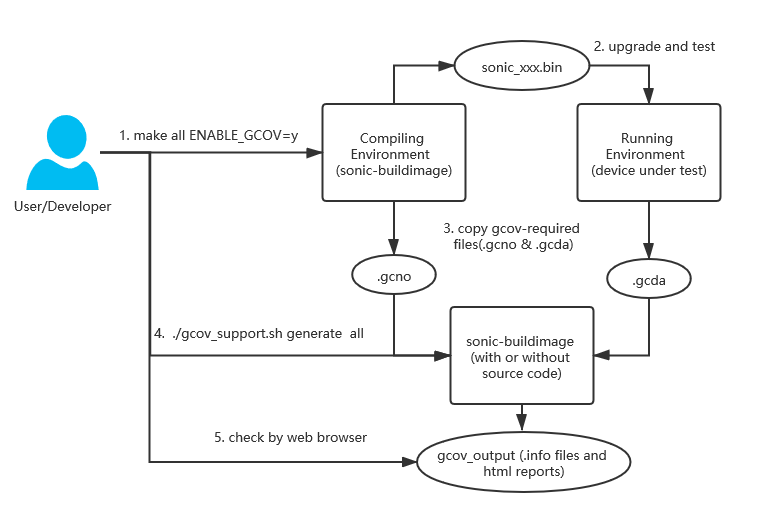
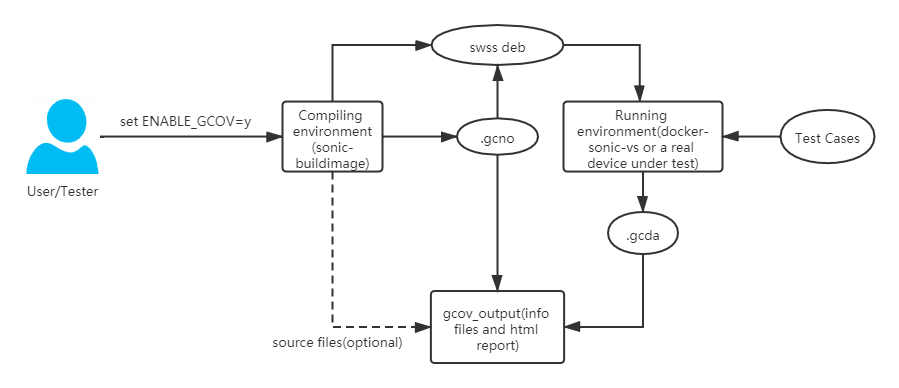
code coverage rate HLD revise

Changed region(s): [[0.0303, 0.0619, 1.0, 0.9588], [0.7879, 0.4639, 0.9091, 0.5876]]

diff --git a/doc/code_coverage_rate/code_coverage_rate.md b/doc/code_coverage_rate/code_coverage_rate.md
@@ -1,158 +1,195 @@
-#  [Code Coverage Rate HLD] Update code coverage rate.md
-code-coverage-rate-hld
+# Code Coverage Rate in SONiC
+# High Level Design Document
+#### Rev 0.1
+
+# Table of Contents
+  * [Revision](#revision)
+  * [About this Document](#about-this-document)
+  * [Problem Definition](#problem-definition)
+  * [Solution](#solution)
+  * [1 Introductions](#1-introductions)
+    * [1.1 What-is-GCOV](#11-what-is-gcov)
+    * [1.2 Main workflow](#12-main-workflow)
+      * [1.2.1 User space modules](#121-user-space-modules)
+      * [1.2.2 kernel modules](#122-kernel-modules)
+  * [2 Design](#2-Design)
+    * [2.1 New Configuration Parameters](#21-new-configuration-parameters)
+    * [2.2 Compile to gcov-versioned debian packet](#22-compile-to-gcov-versioned-debian-packet)
+    * [2.3 Collect gcno files](#23-collect-gcno-files)
+    * [2.4 Collect gcda files](#24-collect-gcda-files)
+    * [2.5 Generation of gcov report](#25-generation-of-gcov-report)
+    * [2.6 Check the coverage report](#26-check-the-coverage-report)
+  * [3 Safety instruction](#3-safety-instruction)
+  * [4 Coverage data for python script](#4-coverage-data-for-python-script)
+
+# Revision
+
+| Rev |     Date    |       Author       | Change Description          |
+|:---:|:-----------:|:-------------------------|:----------------------|
+| 0.1 |  16/4/2019  |   Zhengnan Cheng   | Initial version       |
 
 # About this Document
-This document provides a high level of design for code coverage rate testing.
+This document provides the high level design for code coverage rate testing.
 
 # Problem Definition
-Code coverage rate is a term that describes the rate of the number of code lines that have been executed divide by the number of total code lines in the switch operating system. We reuse this term in SONiC code testing and create some related tools for SONiC code testing.
+Code coverage rate is a term that describe the rate of the number of code lines has been executed divide by the number of total code lines in switch operating system. We reuse this term in SONiC code testing and create some related tools for SONiC code testing.
 
 # Solution
-Use the Gcov tools to measure the code coverage rate in its commercial switch and white box switch. Create the Linux scripts for Gcov compiling, Gcov data collect, and Gcov data show functions for SONiC. A GCOV\_ENABLE compiling tag is provided for the SONiC code project. And we integrate all these Gcov functions into the Jenkins CICD system. Our solution is a complete toolset for the code coverage rate for SONiC.
+Use the Gcov tools to measure the code coverage rate in its commercial switch and white box switch. Create the Linux scripts for Gcov compiling, Gcov data collect, and Gcov report generation for SONiC. A ENABLE\_GCOV compiling tag is provided for SONiC code project. And we integrate all these Gcov functions into Jenkins CICD system. Our solution is a complete tool set for code coverage rate for SONiC. 
 
-# 1. Introduction to GCOV 
+# 1. Introductions
 
-## 1.1. What-is-GCOV
-Gcov is one of the commonly-used tools capable of testing code coverage. It is usually released together with GCC, used in analyzing programs to help create a more efficient and fast running program and discover the untested codes. Every developer can apply gcov as a profiling tool to optimize where your codes are defected by checking the two basic statistics collected from gcov reports:<br>
-1)What codes have been executed.<br>
-2)How many times a code line has been executed.<br>
+## 1.1 What-is-GCOV
+Gcov is one of the commonly-used tools capable of testing code coverage. It is usually released together with GCC, used in analyzing programs to help create a more efficient and fast running program and discover the untested codes. Every developer can apply gcov as a profiling tool to optimize where your codes are defect by checking the two basic statistics collected from gcov reports:<br>
+- What codes have been executed.<br>
+- How many times a code line has been executed.<br>
 
-These two statistics can also be fully exploited by a tester or developer to dramatically reduce the efforts putting into the test cases' improvement. This improvement then can benefit from achieving a prospective code coverage rate. It is noted that the gcov tool can only be used in connection with GCC when managing codes.<br>
+## 1.2 Main workflow
 
-## 1.2. Main workflow
-The workflow of generating a gcov report to the dfd\_debug in sonic-platform-modules-ruijie will be taken as an example briefly described below.<br>
-Two special GCC options: -fprofile-arcs -ftest-coverage are firstly added in the compiler as shown in figure 1.1. These two options tell the compiler to generate some additional information required by gcov.<br>
-
-1)-ftest-coverage: This option helps to generate the .gcno notes file sharing the same name with each source file. The .gcno file saves the information required by rebuilding the basic block graphs and the source line numbers of blocks.<br>
-2)-fprofile-arcs: This option helps to generate the .gcda count data files when a compiled program is running. Same as .gcno files, an individual .gcda file is generated for each source file. The gcda file saves the information about arc transition counts, value profile counts and some summary.<br>
+### 1.2.1 User space modules
+Twp basic compiling flag for gcov:
+- -ftest-coverage: This option helps to generate the .gcno notes file sharing the same name with each source file. The .gcno file saves the information required by rebuilding the basic block graphs and the source line numbers of blocks.<br>
+- -fprofile-arcs: This option helps to generate the .gcda count data files when a compiled program is running. Same as .gcno files, an individual .gcda file is generated for each source file. The gcda file saves the information about arc transition counts, value profile counts and some summary.<br>
 
 ![](figure1.png)<br>
-__Figure 1.1: Additional options for GCC compiler__.<br>
-After the special GCC options are added to the compiler, the ruijie BSP deb which contains the dfd\_debug process can be built. Considering the dfd\_debug is a common app, the device type can be neglected as shown in figure 1.2.<br>
+__Figure 1.1: Additional options for gcc compiler__.<br>
 
-![](figure2.png)<br>
-__Figure 1.2: make ruijie BSP__.<br>
-
-The successful building will create additional .gcno files in company with the object files, as can be seen in figure 1.3. It should be mentioned if the source files keep unchanged, the .gcno files they produce will also remain the same.<br>
+Successful building will create additional .gcno files in company with the object files, as it can be seen from figure 1.2. 
 
 ![](figure3.png)<br>
-__Figure 1.3 .gcno files__.<br>
+__Figure 1.2 .gcno files__.<br>
 
-The executable file will next be copied to the /usr/local/bin dir in the device under test, and executed directly. This step will create the .gcda file within the dir of /sonic/platform/Broadcom/sonic-platform-modules-ruijie/common/app/dev\_util/tmp in running environment. The path of this dir is inconsistent with the path where the .gcno file is generated. Therefore it indicates .gcno files and .gcda files should be in the same dir when generating gcov reports.<br>
+The execution of modules built with gcov options can create the .gcda file in running environment. gcno files and gcda files can then be put together using gcov command to generate the required report
+- gcov dfd\_debug.c --> dfd\_debug.c.gcov<br>
 
-When the .gcda files are collected from the running environment, and sent to the path where the corresponding gcno files exist, the gcov command can be run against the source file and generate the \*.c.gcov file which includes the coverate informations details:<br>
-gcov dfd\_debug.c --> dfd\_debug.c.gcov<br>
-
-While a better option is to apply the lcov tool to create an html-formed report. There are two main advantages to use lcov:<br>
-1) The html-based report provides a better user-friendly view. All coverage data can be access by a simple web browser.<br>
-2) For a large project, the coverage data would be huge and comprehensive. The lcov can generate a merged report which includes all submodules and their coverage data in three levels: the directory level, the file level, and the source code level.<br>
-
-The steps to generate a HTML report by lcov are listed below:<br>
-In the dir where the gcda file exists:<br>
-1) run "lcov -c -d .test.info"<br>
-This command grabs all the coverage data into an info file which contains the coverage information about one or multiple source files.<br>
-2) run "genhtml -o test\_report/test.info"<br>
-
-This command translates the info file and generates an HTML-based coverage report, then a web browser will be available to check the report. As illustrated in figure 1.4,<br>
-the blue bars cover the codes that have been executed, and the number marked at the beginning of each line indicates how many times this code line has been executed. While the red bars cover the code lines not executed.<br>
+While a better option is to apply lcov tool to create a html-formed report. There are two main advantages to use lcov:<br>
+- The html-based report provides a better user-friendly view. All coverage data can be access by a simple web browser.<br>
+- For a large project, the coverage data would be huge and comprehensive. The lcov can generate a merged report which includes all submodules and their coverage data in three levels: the directory level, the file level and the source code level.<br>
 
 ![](figure4.png)<br>
-__Figure 1.4 Coverage details for a source file__.<br>
+__Figure 1.3 Coverage details for a source file__.<br>
 
-For Linux kernel version larger than 2.6.31, gcov-based compiling can be directly enabled by configuring the kernel with the following macros:<br>
-Note that all the new contents in the following patch must be added, or the compiling process fails due to incomplete configurations.<br>
+### 1.2.2 kernel modules
+For linux kernel version larger than 2.6.31, gcov-based compiling can be directly enabled by configuring the kernel with the following macros:<br>
+```
+CONFIG_GCOV_KERNEL=y
+CONFIG_GCOV_PROFILE_ALL=y
+CONFIG_GCOV_FORMAT_AUTODETECT=y
+# CONFIG_GCOV_FORMAT_3_4 is not set
+# CONFIG_GCOV_FORMAT_4_7 is not set
+```
 
-![](figure5.png)<br>
-__Figure 1.5  Kernel gcov compiling configuration__.<br>
-
-This patch will be placed in the src/sonic-Linux-kernel/patch folder and added to the series file so that when compiling the kernel, the patch will be automatically applied and the kernel deb file can be compiled to a gcov version one.<br>
-
-# 2. The basic workflow for SONiC Coverage Testing
-In order that a SONiC image can be complied with gcov option and a corresponding gcov report can be generated as easily as possible, a script named gcov\_support.sh will be added to sonic-buildimage repository. The main purpose of adding this script is to help the users to output a gcov-versioned SONiC image and generate coverage reports in a very simple way as shown in figure 2.1.<br>
-
-The following steps are required currently to generate a complete report for source codes in SONiC:<br>
-        Add option "ENABLE_GCOV=y" when running a make command to compile a SONiC image<br>
-	Upgrade the device under test with the gcov-versioned SONiC image and run the test suite<br>
-	Collect the .gcno files in compiling environment and the .gcda files in running environment<br>
-	Copy the gcov-required files (.gcno and .gcda) and the gcov_support.sh script into a local linux environment<br>
-	Execute the generate keyword in the script to create the complete report and check with a web browser.<br>
+# 2. Design
+In order that a SONiC image can be complied with gcov option and a corresponding gcov report can be generated as easily as possible, a script named gcov\_support.sh will be added. Currently this script will be added to sonic-swss repo to provide help for gcno and gcda files colletion and report generating in a very simple way as shown in figure 2.1.<br>
 
 ![](figure21.png)<br>
 __Figure 2.1 Workflow to enable gcov in SONiC__.<br>
 
-## 2.1 Compile to gcov-versioned SONiC image
-The option "ENABLE\_GCOV=y" passed to the compiling process will trigger the execution of two keywords in gcov\_support.sh script. This script contains in total 5 keywords as listed in figure 2.2 below.<br>
-![](figure22.png)<br>
-__Figure 2.2 Usage keywords of gcov\_support.sh__.<br>
+## 2.1 New Configuration Parameters
+ENABLE_GCOV as a new configuration parameter is added to SONiC build system. The default value is "n". When a gcov building is required, this parameter should be set to "y"
+```
+#gcov compiling option
+ENABLE_GCOV=n
+export ENABLE_GCOV
+```
+This parameter will control whether a specify module should be compiled with gcov options introduced in 1.2.1
 
-init: This keyword will be merged to "make init" command, which is controlled by ENABLE\_GCOV option Then the execution of "make init" will first download and update the source codes in the repository, and next run the "init" keyword in the script to apply the patches to all modules in SONiC. These patches are saved in a source address (HTTP server) beforehand, and each is responsible for a particular module to modify the gcc compiling option By doing this, each module can be compiled to their gcov-versioned object files and the additional .gcno files.<br>
+## 2.2 Compile to gcov-versioned debian packet
+The configure script for swss package should be modified to merge gcov compiling options.
+```
+dnl if the user has specified any CFLAGS, override our settings
+if test "$enable_gcov" = "yes"; then
+    CFLAGS_COMMON+=" -fprofile-arcs -ftest-coverage"
+    AC_SUBST(CFLAGS_COMMON)
 
-collect .gcno: This keyword will be triggered to run after all .deb files are built, which is also controlled by the ENABLE\_GCOV option. By running "collect .gcno" keyword, all .gcno files generated during compiling will be collected and packed to a gcno.tar.gz file saved inside the target folder.<br>
+    LDFLAGS+=" -fprofile-arcs"
+    AC_SUBST(LDFLAGS)
+fi
+...
+AC_ARG_ENABLE([gcov], AS_HELP_STRING([--enable-gcov], [enable coverage test]))
+AS_IF([test "x${enable_gcov}" = "xyes" ], AC_MSG_RESULT([yes]), AC_MSG_RESULT([no]))
+AM_CONDITIONAL([ENABLE_GCOV],[test "x${enable_gcov}" = "xyes"])
+```
 
-## 2.2 Collect .gcda files
-When the above compiling process is complete, a gcov-versioned SONiC image sonic\_xxx.bin("xxx" represents the platform being configured) will be created, and it can be used to update a device under test to generate the required .gcda files. According to the modules they belong to, the .gcda files will be temporarily saved in two directories :<br>
-The .gcda files which are generated by processes in user space are saved in the root directory of the device under test. Besides, each .gcda file has a save path the same as the corresponding object file in the compiling environment.<br>
+## 2.3 Collect gcno files
+The keyword "collect" in gcov_support.sh which has been added to swss repo will be used to collect gcno files, and it will be excuted during the "install" stage of the debian package building:
+- All script keywords usage:
+```
+root@5c5e8c570c0f:/tmp/swss_gcov/src/sonic-swss# ./gcov_support.sh
+Usage:
+ init                initialize gcov compiling environment
+ collect             collect .gcno files
+ collect_gcda        collect .gcda files
+ generate            generate gcov report in html form (all or submodule_name)
+ clean               reset environment
+ tar_output          tar gcov_output forder
+```
+- Adjustment towards the debian building rules
+```
+override_dh_auto_install:
+	dh_auto_install --destdir=debian/swss
 
-The .gcda files which are generated by kernel modules are saved in the directory of /sys/kernel/debug/gcov/sonic. Similarly, the path from /sonic is the same as that for the corresponding object file in the compiling environment. One important feature which should be mentioned is the .gcda files saved inside the system's kernel directory have no data displayed. They should be copied to the root directory alongside with that generated in userspace. So that these kernel-related .gcda files can display their saved information and be used normally.<br>
+	mkdir -p debian/swss/tmp/swss_gcov
 
-To collect the .gcda files after running the test suite, users can find the gcov\_support.sh script in the system's directory of /usr/local/bin, and then run the "collect .gcda" keyword of the script as shown in figure 2.2 to do the collecting job and output gcda.tar.gz file.<br> 
+	sh ./gcov_support.sh collect
+```
+After the "collect" operation, a compressed gcno.tar.gz is sent to /tmp/swss\_gcov inside the debian package.
 
-## 2.3 Generate the coverage report
-gcno.tar.gz and gcda.tar.gz are the two basic files required to generate an accessible coverage report. As can be seen from figure 2.1, the third step is to send these two compressed files into a local Linux Ubuntu environment. There exist two situations:<br>
+## 2.4 Collect gcda files
+gcov_support.sh is also sent to /tmp/swss\_gcov inside the debian package. After the regular tests to the swss module inside a device, the keyword "collect\_gcda" can be used to collect the generating gcda files, produce gcda.tar.gz and move it into /tmp/swss_gcov together with gcno.tar.gz
 
-If the local environment contains the sonic-buildimage repository, then the two compressed files should be sent to where the sonic folder resides, as shown in figure 2.3.<br>
-Then the user can enter the sonic folder and run:<br>
+## 2.5 Generation of gcov report
+gcno.tar.gz and gcda.tar.gz are the two basic files required to generate an accessible coverage report. The user can enter the /tmp/swss\_gcov inside the swss docker and run:
+```
+./gcov_support.sh generate all
+```
+to generate the overall gcov report for swss module
 
-./gcov\_support.sh generate [all | submodule\_name]<br>
-The "all" keyword represents this command will generate all modules' coverage reports and a merged report. While "submodule_name" keywords indicate the user can select one particular module to generate the coverage report. <br>
-
-![](figure23.png)<br>
-__Figure 2.3 The goal directory of gcov-required files__.<br>
-
-If the local environment is clean and does not contain the sonic-buildimage repository, then the user can create a new directory named sonic, copy the script to the sonic folder and then run:<br>
-./gcov\_support.sh generate all<br>
-to generate the overall report.<br>
-
-It should be noticed that the info file created by the lcov command records the detailed path of the source files, which can be seen in figure 2.5. If in practice the source files do not exist in the directory the info file indicates, then the generated report cannot present the detailed execution information of the source codes. Only the coverage percentage will be given.<br>
-![](figure24.png)<br>
-__Figure 2.4 run script in sonic folder__.<br>
-
-![](figure25.png)<br>
-__Figure 2.5 Source file path recorded in info files__.<br>
-
-## 2.4 Check the coverage report
-Figure 2.6 shows that the coverage reports will be saved under /sonic/gcov\_output directory.<br>
+## 2.6 Check the coverage report
+Figure 2.2 shows that the coverage reports will be saved under /tmp/swss\_gcov/src/sonic-swss directory.<br>
 
 ![](figure26.png)<br>
-__Figure 2.6 Contents in gcov\_output__.<br>
+__Figure 2.2 Contents in gcov\_output__.<br>
 
 The output includes:<br>
-info folder: save info files for all modules according to their generated paths<br>
-HTML folder: save gcov HTML report for all modules according to their generated paths<br>
-AllMergeReport: save the merged overall report which contains all coverage information<br>
-info\_err\_list:record the modules which failed to generate the info files<br>
-gcda\_dir\_list.txt:record the directories of all .gcda files<br>
+- info folder: save info files for all modules according to their generated paths<br>
+- html folder: save gcov html report for all modules according to their generated paths<br>
+- AllMergeReport: save the merged overall report which contains all coverage information<br>
+- info\_err\_list:record the modules which failed to generate the info files<br>
+- gcda\_dir\_list.txt:record the directories of all .gcda files<br>
 The merged overall report can be checked from index.html under AllMergeReport dir by a web browser.<br>
 
 ![](figure27.png)<br>
-__Figure 2.7 Contents of AllMergeReport__.<br>
+__Figure 2.3 Contents of AllMergeReport__.<br>
 ![](figure28.png)<br>
-__Figure 2.8 Overall coverage report__.<br>
+__Figure 2.4 Overall coverage report__.<br>
 
-# 3. Modules already available for gcov
-  sonic-isc-dhcp<br>
-  sonic-libteam<br>
-  sonic-lldp<br>
-  sonic-frr<br>
-  igb<br>
-  iproute2<br>
-  python3<br>
-  mpdecimal<br>
-  sonic-linux-kernel<br>
-  sonic-platform-modules-ruijie(ruijie-BSP)<br>
-# 4. Safety instruction
+# 3. Safety instruction
 The gcov support for SONiC totally depends on the open-source tools -- gcov/lcov. Hence the modification towards the sonic project is only limited to the compiling options of gcc in order that the additional gcov-required files (.gcno and .gcda) can be generated during compiling. This modification will not have any influence on other sections of the compiling process.<br> 
 
-When a source file is compiled with the gcov compiling options, each executable line in this source file will be followed by a new-added piece of code that updates coverage statistics. Gcov realizes this process by adding stubs when generating assembly files. Each stub point will be inserted into 3 to 4 new assembly statements. These statements are directly added to the .s files. Then the assembly files can be assembled to the object files and the executable file. After doing this, when the executable file is running, the stubs added during compiling will collect the execution information. The statistical approach for these stubs is very simple, they are just variables in the memory and record the execution times for each code line. Therefore in the practical running environment, the performance impact brought by generating .gcda files can be ignored. The user can also hardly feel the difference.<br>
+- When a source file is compiled with the gcov compiling options, each executable line in this source file will be followed by a new-added piece of code wihch updates coverage statistics. Gcov realizes this process by adding stubs when generating assembly files. Each stub point will be inserted into 3 to 4 new assembly statements. These statements are directly added to the .s files. Then the assembly files can be assembled to the object files and the executable file. After doing this, when the executable file is running, the stubs added during compiling will collect the execution information. The statistical approach for these stubs is very simple, they are just variables in the memory and record the execution times for each code line. Therefore in the practical running environment, the performance impact brought by generating .gcda files can be ignored. The user can also hardly feel the difference.<br> 
 
+# 4. Coverage data for python script
+The coverage report for a python script can be generated in the running environment by applying a tool called coverage. The steps are listed below:<br>
+
+- Install the coverage tool in the device under test:<br>
+```
+pip install coverage<br>
+```
+Run a python script with coverage tool instead of direct execution:<br>
+```
+coverage run -a /usr/local/bin/fancontrol.py start --> python fancontrol.py start<br>
+```
+Check the coverage result:<br>
+```
+coverage report<br>
+```
+Generate html-based report:<br>
+```
+coverage html<br>
+```
+
+![](figure41.png)<br>
+__Figure 4.1 Coverage report for python script__.<br>
+The analysis to the coverage data collection of python scripts is till in progress. The elimination of the user's awareness to the coverage tool is our next step.<br>
 
